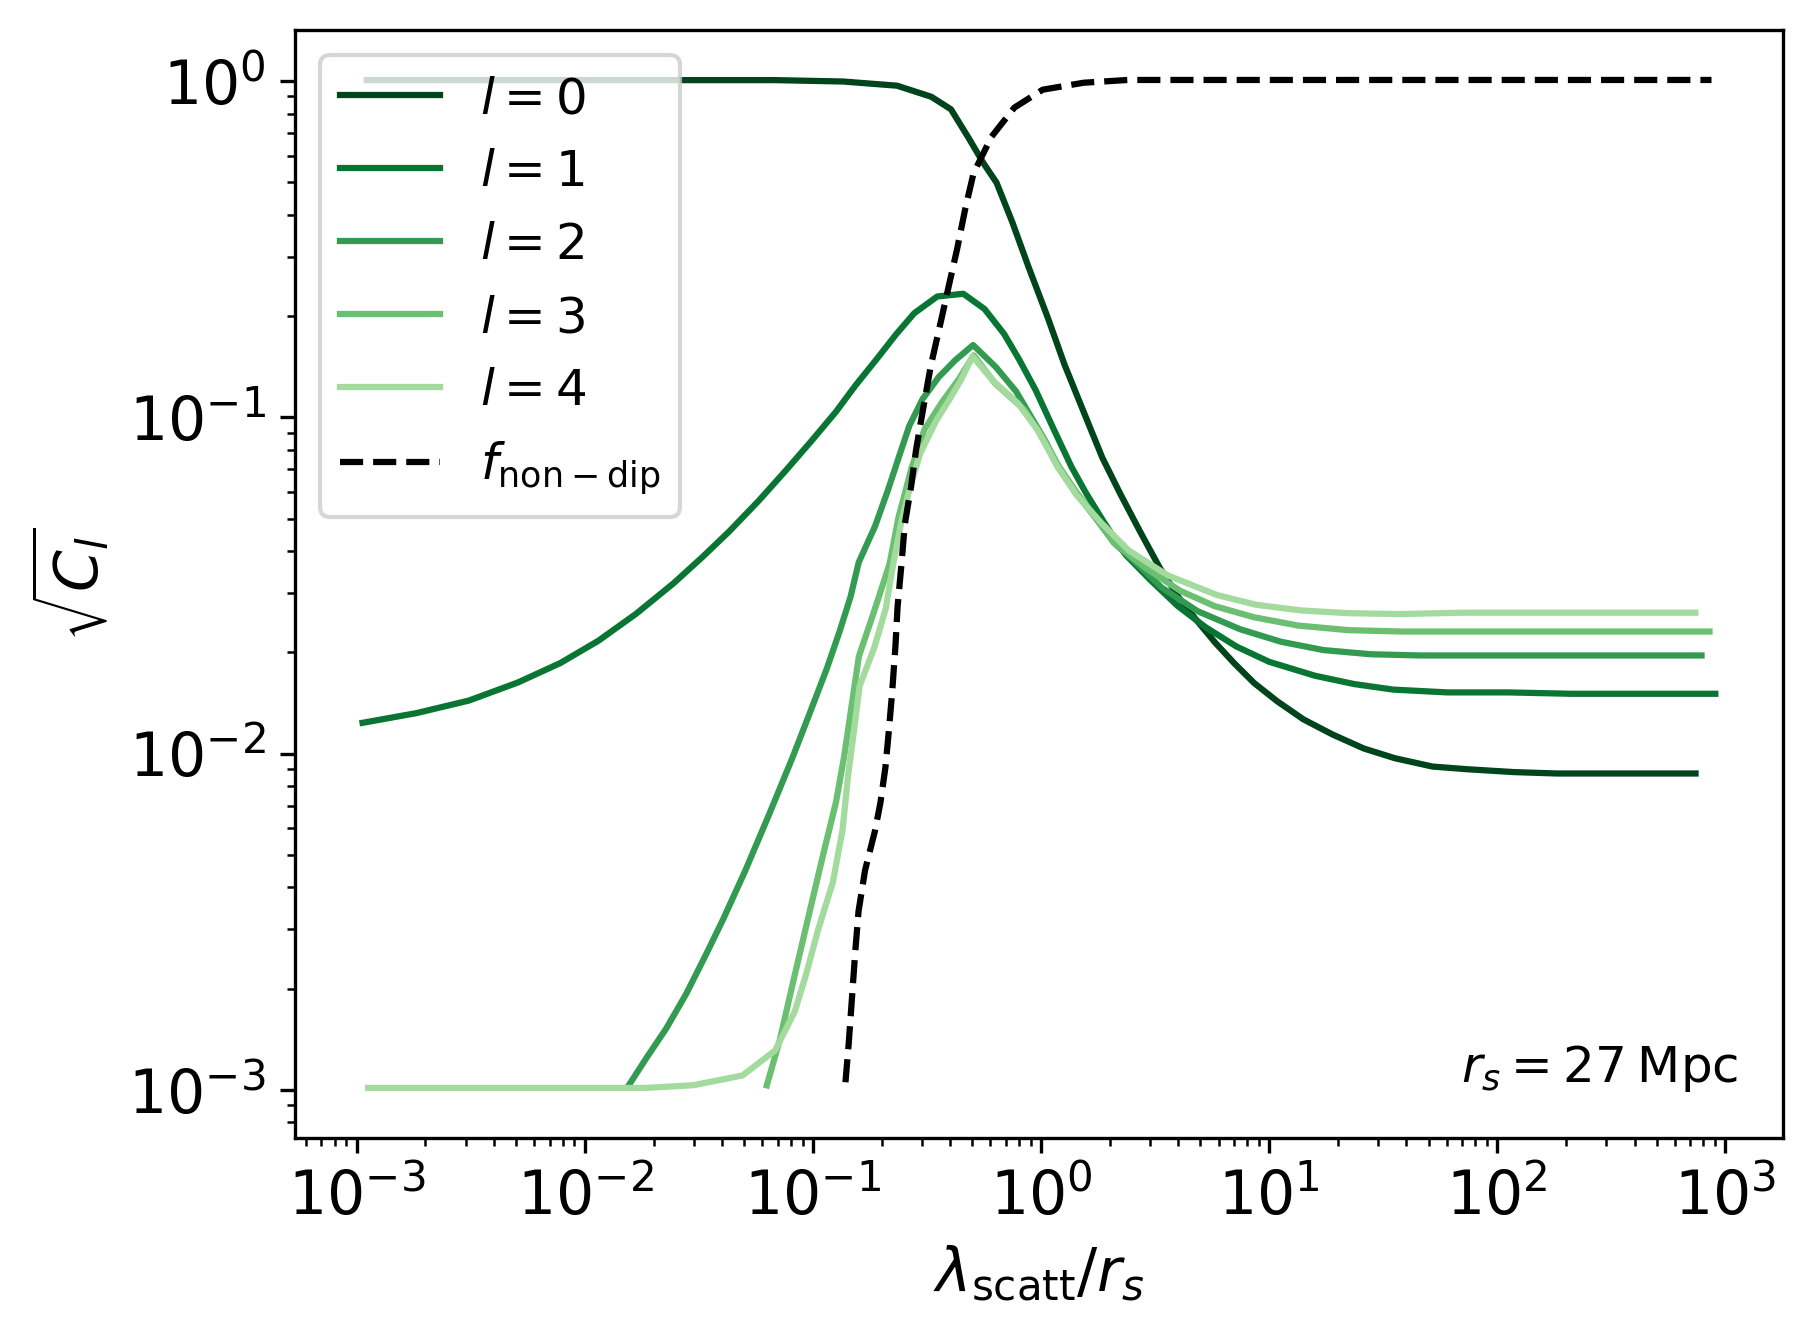
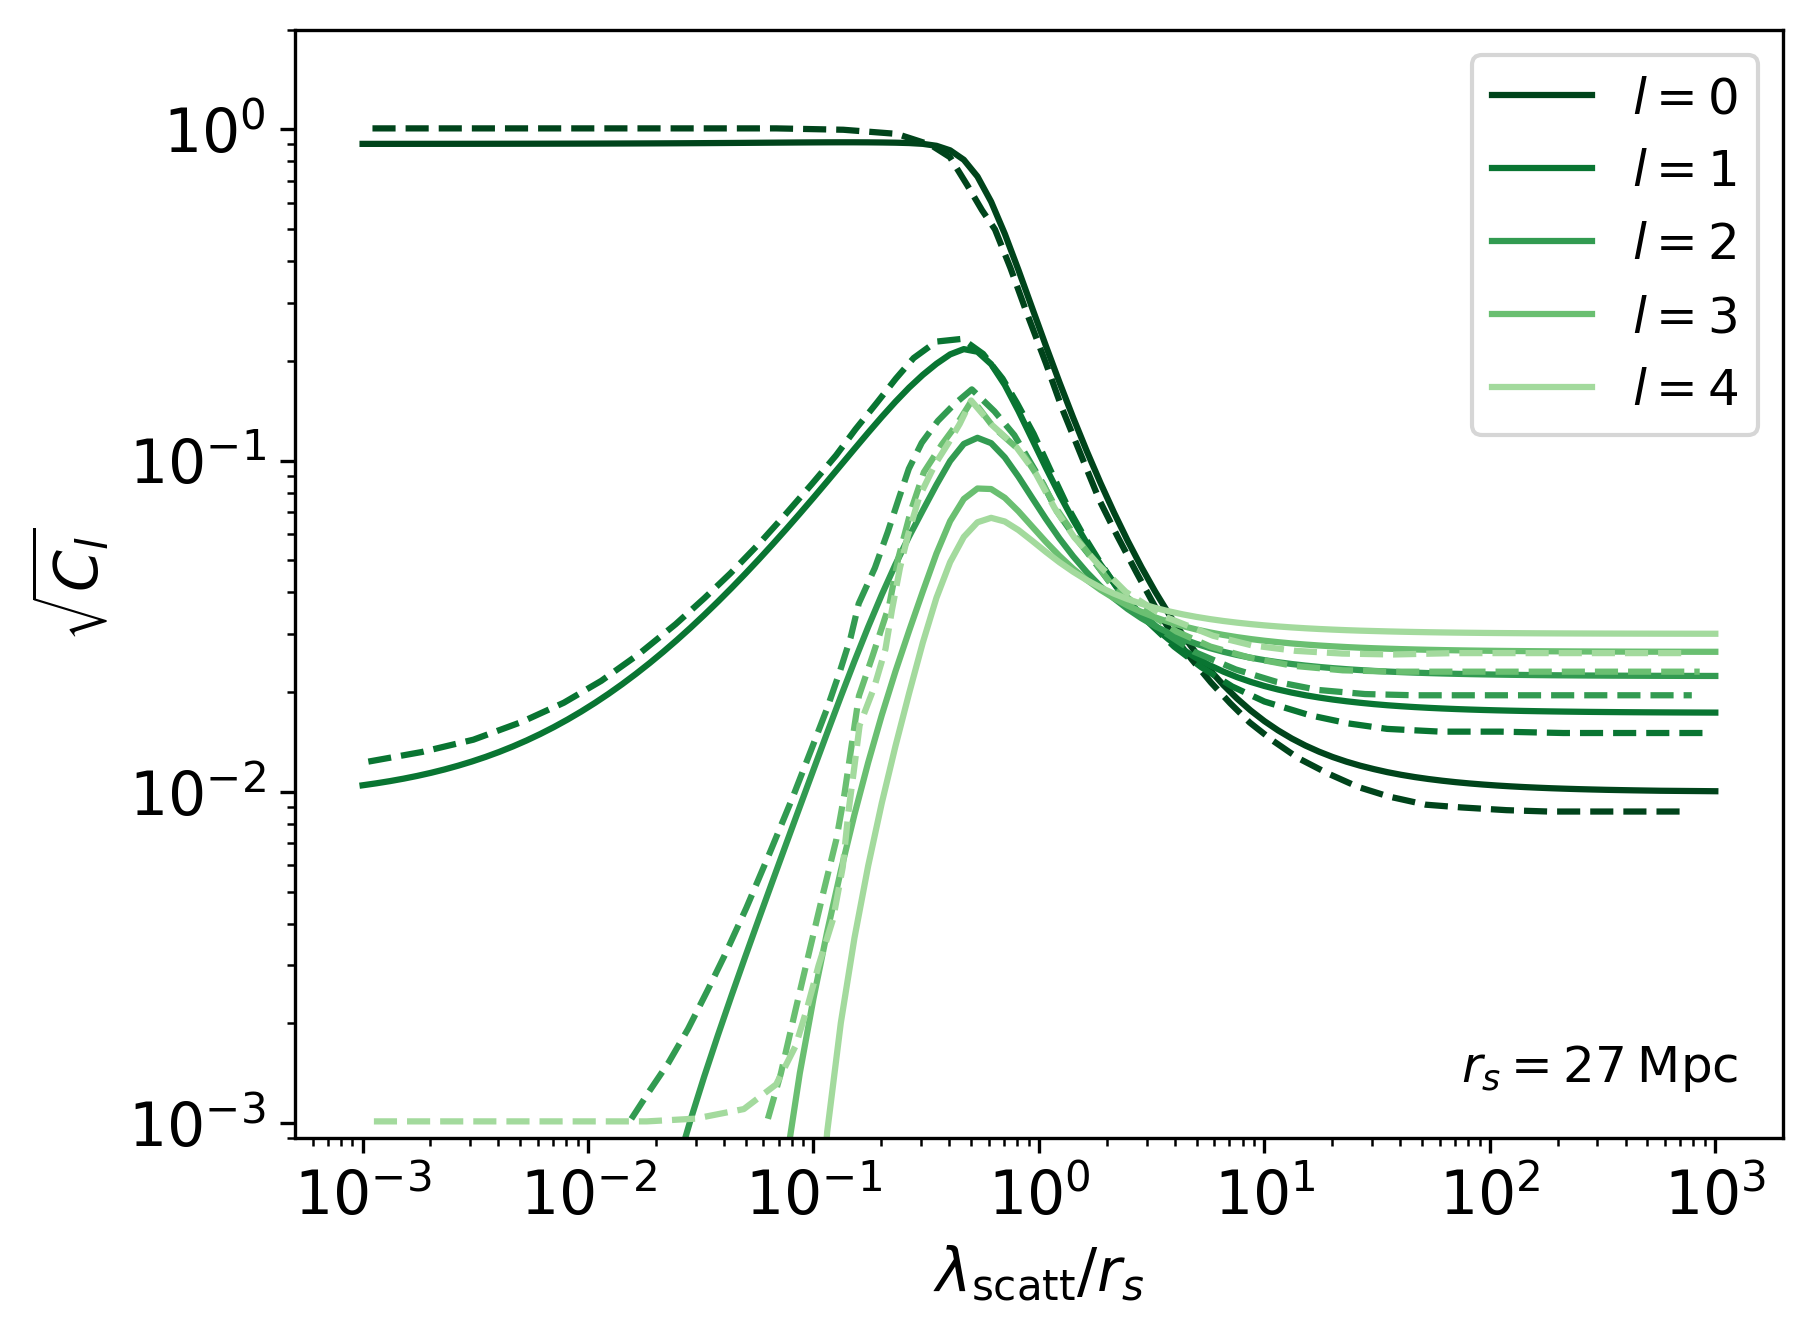
Add plot of angular power spectrum as a function of scattering length to source distance ratio

diff --git a/bg-srcs-check/scripts/plot_angular_pwr_spec.py b/bg-srcs-check/scripts/plot_angular_pwr_spec.py
@@ -18,17 +18,21 @@ RESULTS_DIR = "../results"
 def plot_angular_power_spectrum():
 
     for l in range(5):
-        data = np.loadtxt(f"{REFERENCES_DIR}/Lang2021_Cl_lbd_scatt_over_rs_{l}.dat")
-        plt.plot(data[:,0], data[:,1], c = cm.Greens(np.linspace(0, 1, 20)[19-3*l]), label = r'$l = {}$'.format(l))
+        LAD_data = np.loadtxt(f"{RESULTS_DIR}/angular_pwr_spec_27Mpc_{l:02d}.dat")
+        Lang2021_data = np.loadtxt(f"{REFERENCES_DIR}/Lang2021_Cl_lbd_scatt_over_rs_{l:02d}.dat")
+        plt.plot(LAD_data[:,0], np.sqrt(LAD_data[:,1]), c = cm.Greens(np.linspace(0, 1, 20)[19-3*l]), label = r'$l = {}$'.format(l))
+        plt.plot(Lang2021_data[:,0], Lang2021_data[:,1], c = cm.Greens(np.linspace(0, 1, 20)[19-3*l]), ls = '--', label = '_nolegend_')
 
-    data = np.loadtxt(f"{REFERENCES_DIR}/Lang2021_Cl_lbd_scatt_over_rs_f_non-dip.dat")
-    plt.plot(data[:,0], data[:,1], c = 'k', ls = '--', label = r'$f_{\rm non-dip}$')
+
+    # Lang2021_data = np.loadtxt(f"{REFERENCES_DIR}/Lang2021_Cl_lbd_scatt_over_rs_f_non-dip.dat")
+    # plt.plot(Lang2021_data[:,0], Lang2021_data[:,1], c = 'k', ls = '--', label = r'$f_{\rm non-dip}$')
 
     at = AnchoredText(r'$r_s = 27 \: \rm Mpc$', loc = 'lower right', frameon = False, prop = {'fontsize': 'large'})
     plt.gca().add_artist(at)
 
     plt.xscale('log')
     plt.yscale('log')
+    plt.ylim(9e-4, 2e0)
     plt.xlabel(r'$\lambda_{\rm scatt}/r_s$')
     plt.ylabel(r'$\sqrt{C_l}$')
     plt.legend()
